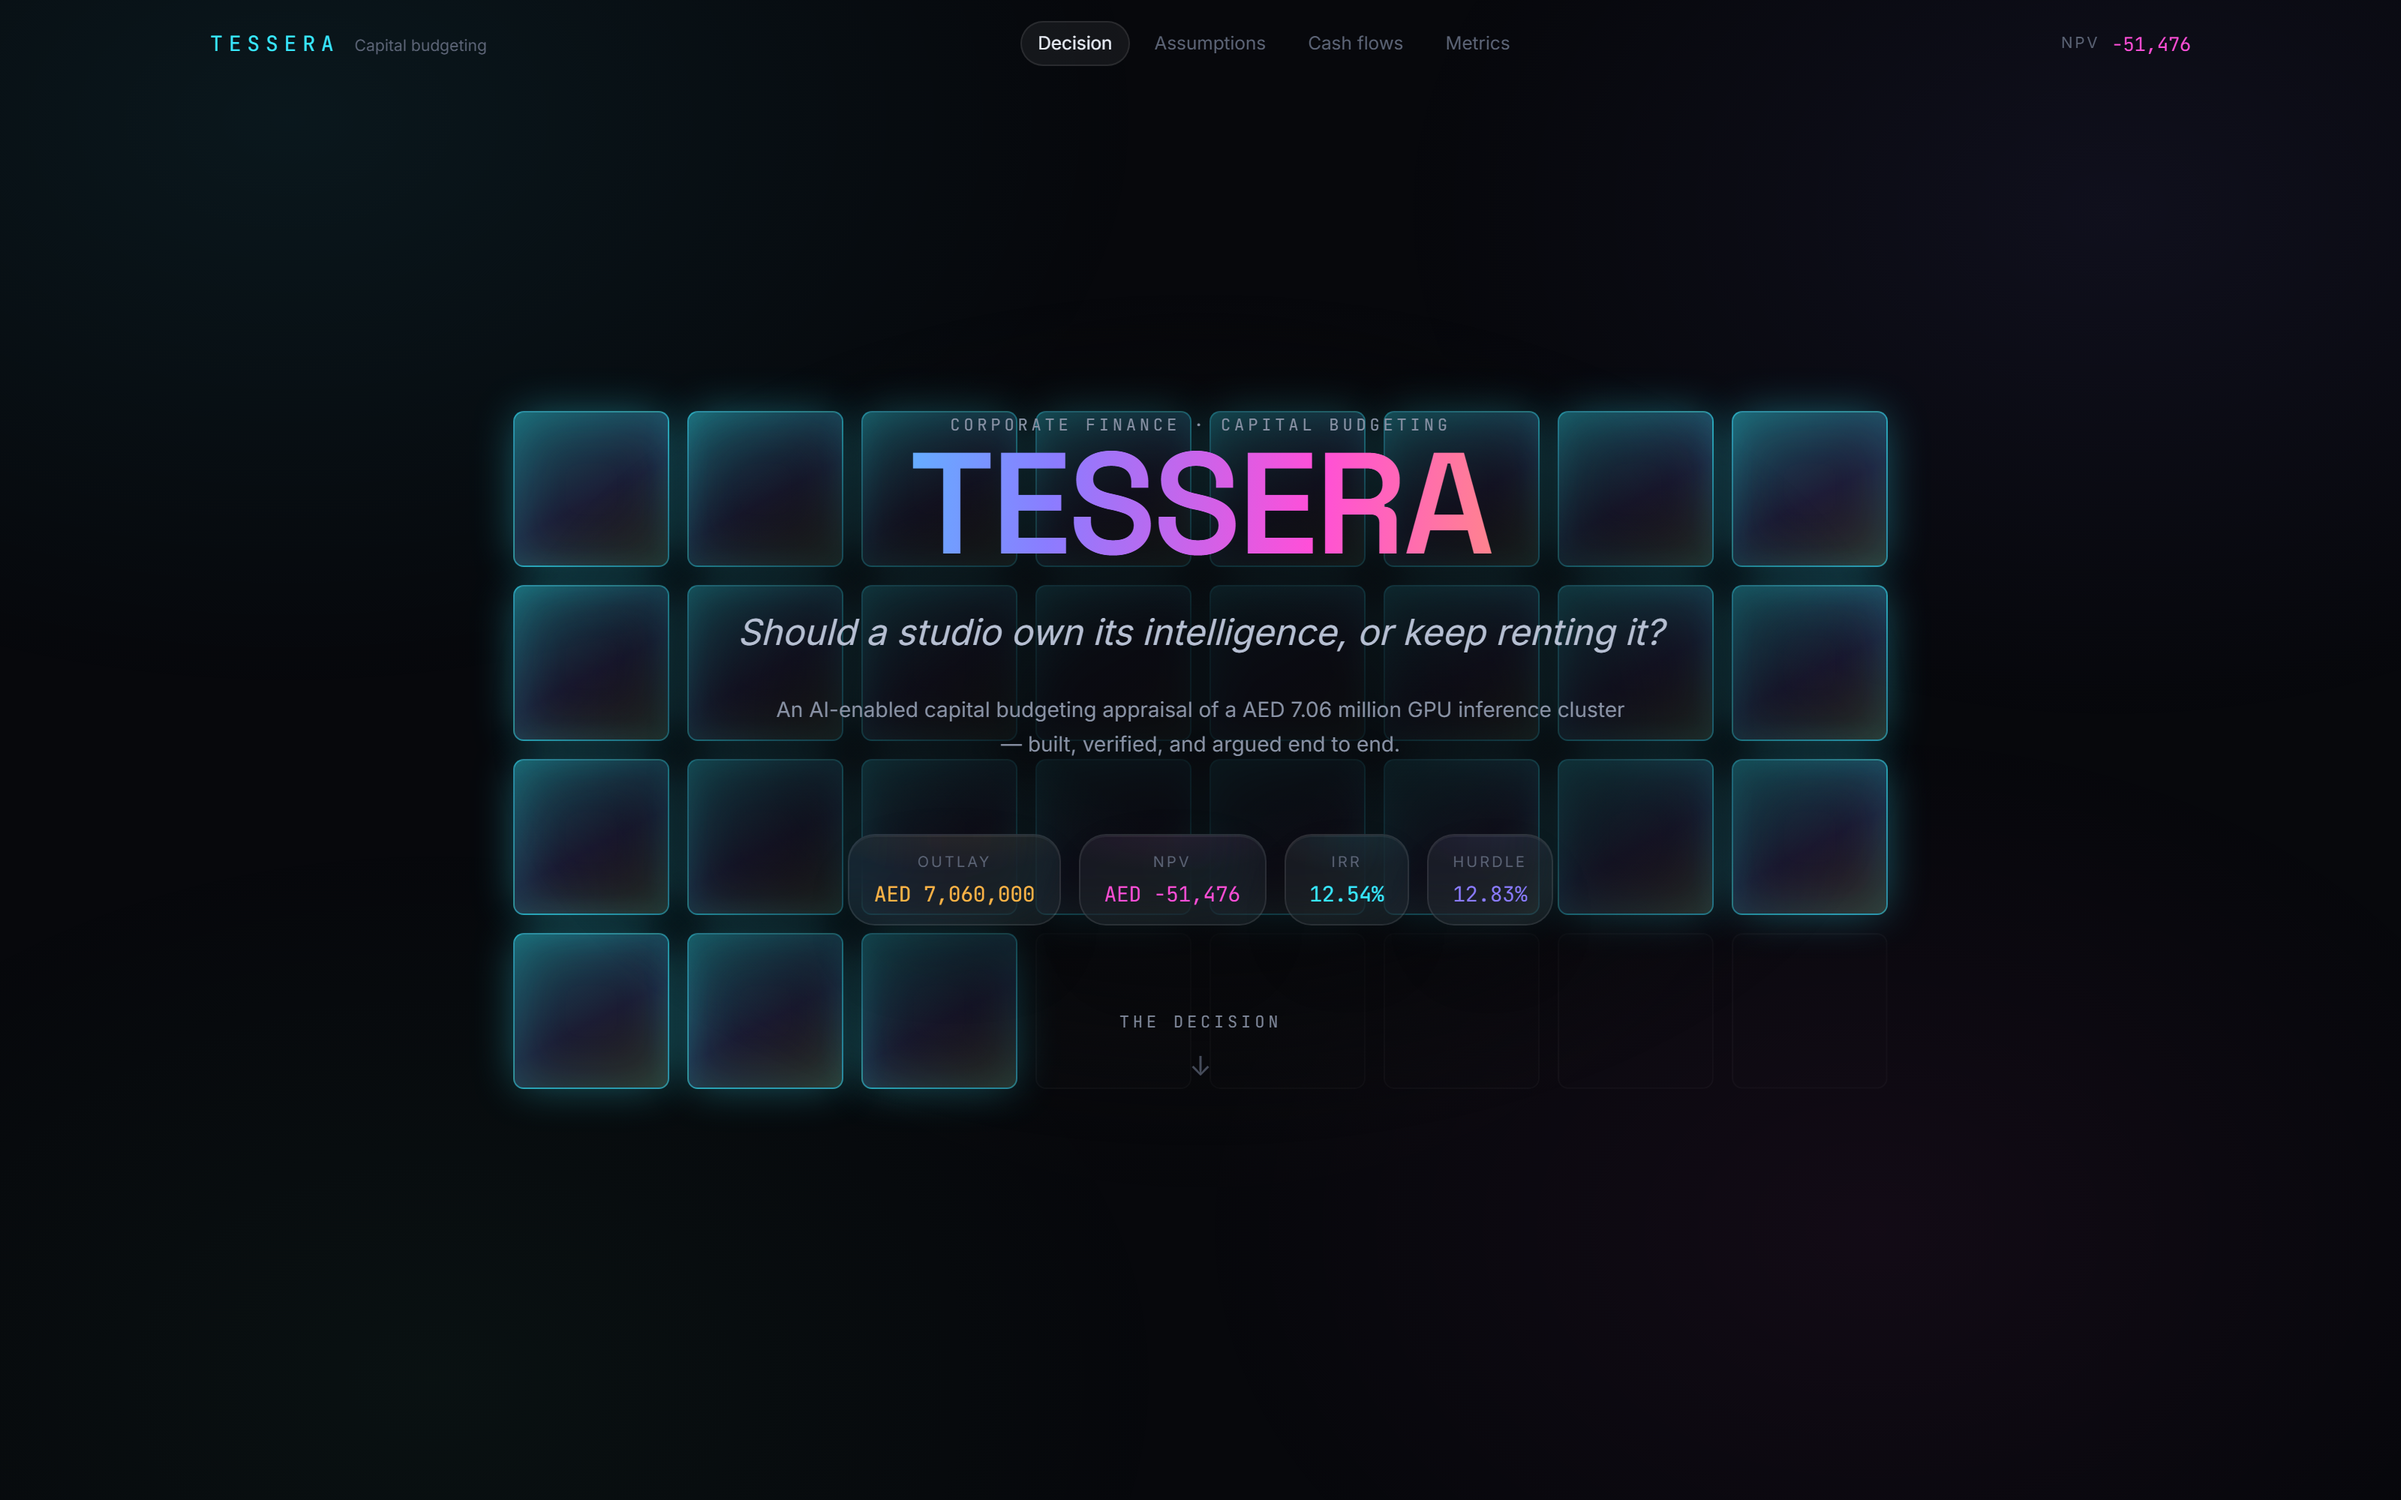
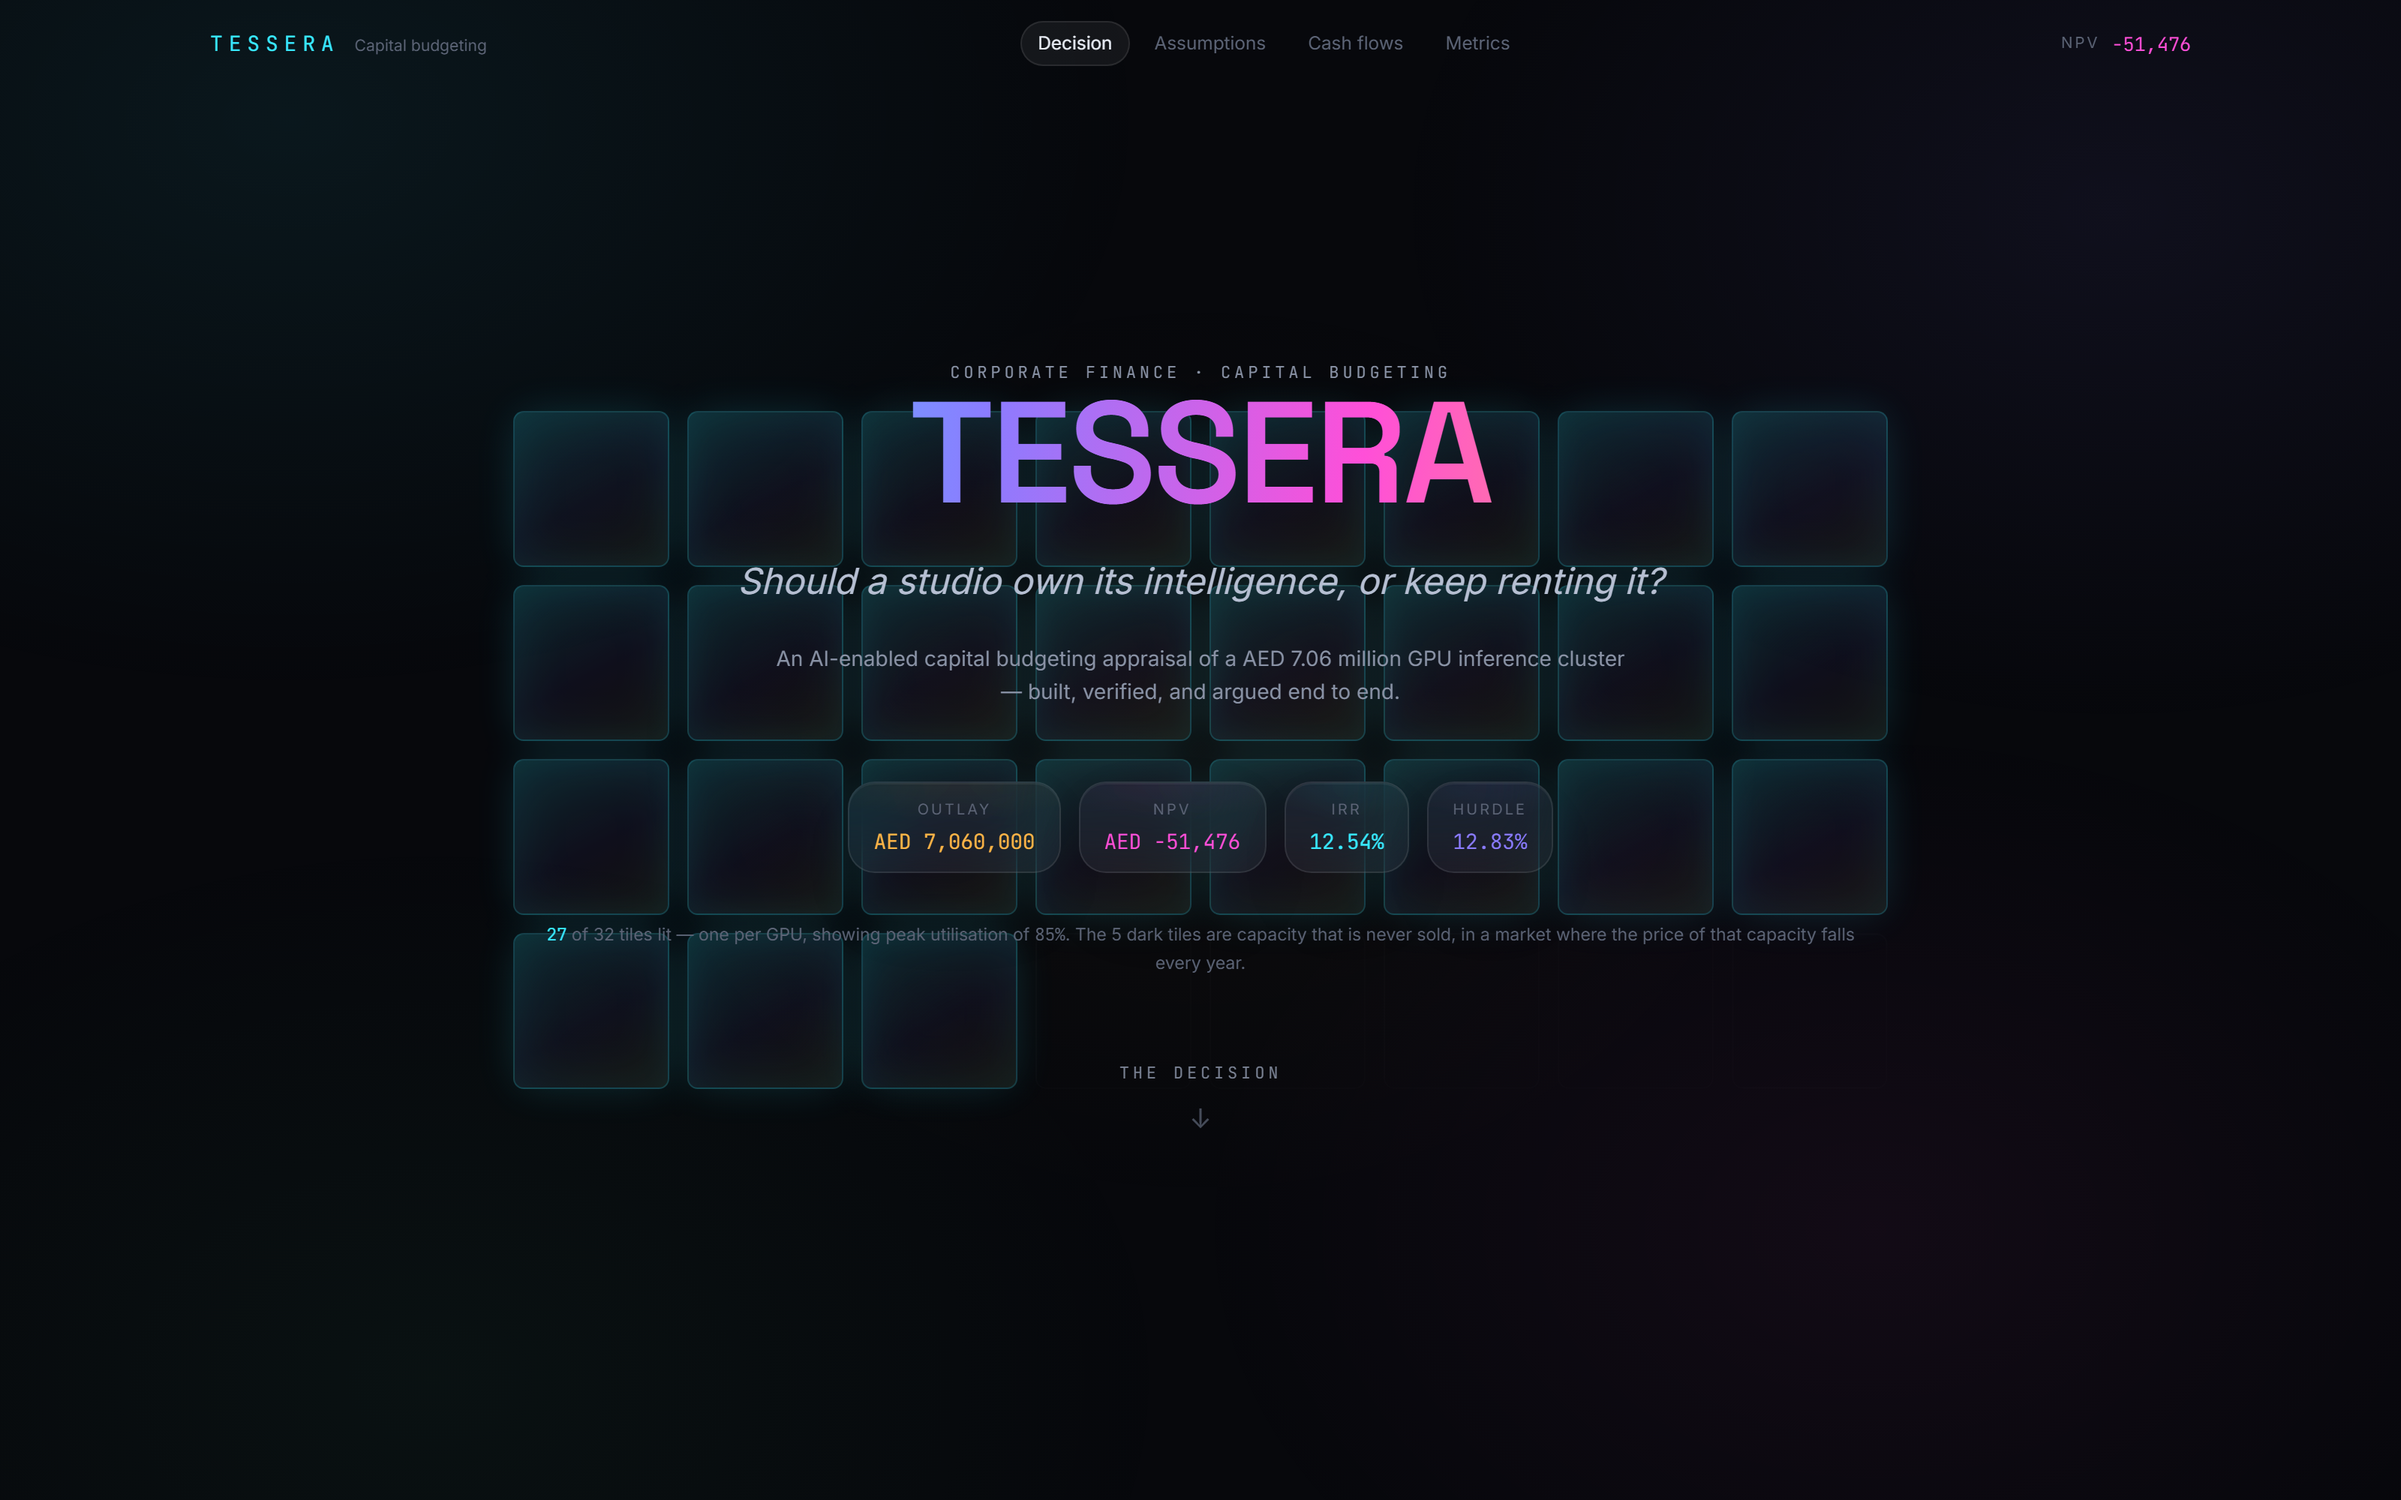
Fix hero lattice so lit and unlit tiles read consistently
The lattice lights one tile per GPU, with the count set by peak
utilisation, so 27 of 32 tiles are lit and the 5 dark ones represent
capacity that is never sold. A radial vignette behind the title was
darkening whichever tiles sat in the middle, which made lit tiles in the
centre columns read as unlit and turned a data-carrying motif into
apparent noise.

The vignette is gone. Legibility now comes from holding the whole lattice
at low opacity, which preserves the relative contrast between lit and
unlit tiles instead of destroying it in one region.

A text-shadow was tried first and made things worse: the title is painted
with background-clip:text over a transparent fill, so the shadow shows
through the letterforms rather than sitting behind them, and the gradient
went muddy. Both dead ends are recorded in comments so neither gets
reintroduced.

Adds a caption stating what the lattice is showing, so the dark tiles are
legible as data rather than mistaken for unfinished styling.

Changed region(s): [[0.1875, 0.248, 0.8125, 0.744], [0.7188, 0.496, 0.8125, 0.589], [0.7188, 0.589, 0.7812, 0.62]]

diff --git a/tessera/src/sections/ColdBoot.tsx b/tessera/src/sections/ColdBoot.tsx
@@ -27,8 +27,13 @@ export function ColdBoot() {
       {/* The lattice — one tile per GPU. Lit tiles show planned peak utilisation,
           so the hero is displaying the model rather than ornament. */}
       <div className="pointer-events-none absolute inset-0 flex items-center justify-center">
+        {/* Held at low opacity so the type reads over it. Dimming the whole
+            lattice uniformly preserves the RELATIVE contrast between lit and
+            unlit tiles, which is the thing the motif is actually communicating —
+            unlike the radial vignette this replaced, which dimmed only the
+            tiles that happened to sit in the middle. */}
         <div
-          className="grid gap-2.5 md:gap-3"
+          className="grid gap-2.5 opacity-[0.42] md:gap-3"
           style={{ gridTemplateColumns: 'repeat(8, minmax(0, 1fr))' }}
         >
           {Array.from({ length: TILE_COUNT }).map((_, i) => {
@@ -59,16 +64,16 @@ export function ColdBoot() {
         </div>
       </div>
 
-      {/* Sits between the lattice and the title so the type stays legible while
-          the lattice keeps its presence at the edges. */}
-      <div
-        className="pointer-events-none absolute inset-0"
-        style={{
-          background:
-            'radial-gradient(40rem 24rem at 50% 48%, rgb(7 8 12 / 0.86) 16%, rgb(7 8 12 / 0.55) 44%, transparent 74%)',
-        }}
-      />
+      {/* Deliberately NO vignette behind the lattice. An earlier version darkened
+          the centre to protect the type, which dimmed lit tiles that happened to
+          sit in the middle and made the lit/unlit split unreadable — the tiles
+          are carrying data, so anything that obscures them is a bug. Legibility
+          is handled by a shadow on the type itself instead. */}
 
+      {/* No text-shadow here: the title is painted with background-clip:text over a
+          transparent fill, so a shadow shows through the letterforms instead of
+          sitting behind them and turns the gradient muddy. Legibility comes from
+          holding the lattice at low opacity instead. */}
       <div className="relative z-10 mx-auto max-w-4xl text-center">
         <motion.p
           initial={{ opacity: 0, y: 12 }}
@@ -130,6 +135,23 @@ export function ColdBoot() {
           <HeroStat label="IRR" value={percent(model.irr.value)} tone="photon" />
           <HeroStat label="Hurdle" value={percent(model.inputs.wacc)} tone="iris" />
         </motion.div>
+
+        {/* States what the lattice is showing, so the reader can tell the dark
+            tiles apart from decoration. */}
+        <motion.p
+          initial={{ opacity: 0 }}
+          animate={{ opacity: 1 }}
+          transition={{ duration: 0.8, delay: 0.7 }}
+          className="mt-8 text-[0.72rem] leading-relaxed text-slate-500"
+        >
+          <span className="numeric" style={{ color: TONE_HEX.photon }}>
+            {litTiles}
+          </span>{' '}
+          of {TILE_COUNT} tiles lit — one per GPU, showing peak utilisation of{' '}
+          <span className="numeric">{percent(peakUtilisation, 0)}</span>. The{' '}
+          {TILE_COUNT - litTiles} dark tiles are capacity that is never sold, in a market
+          where the price of that capacity falls every year.
+        </motion.p>
 
         <motion.a
           href="#decision"
